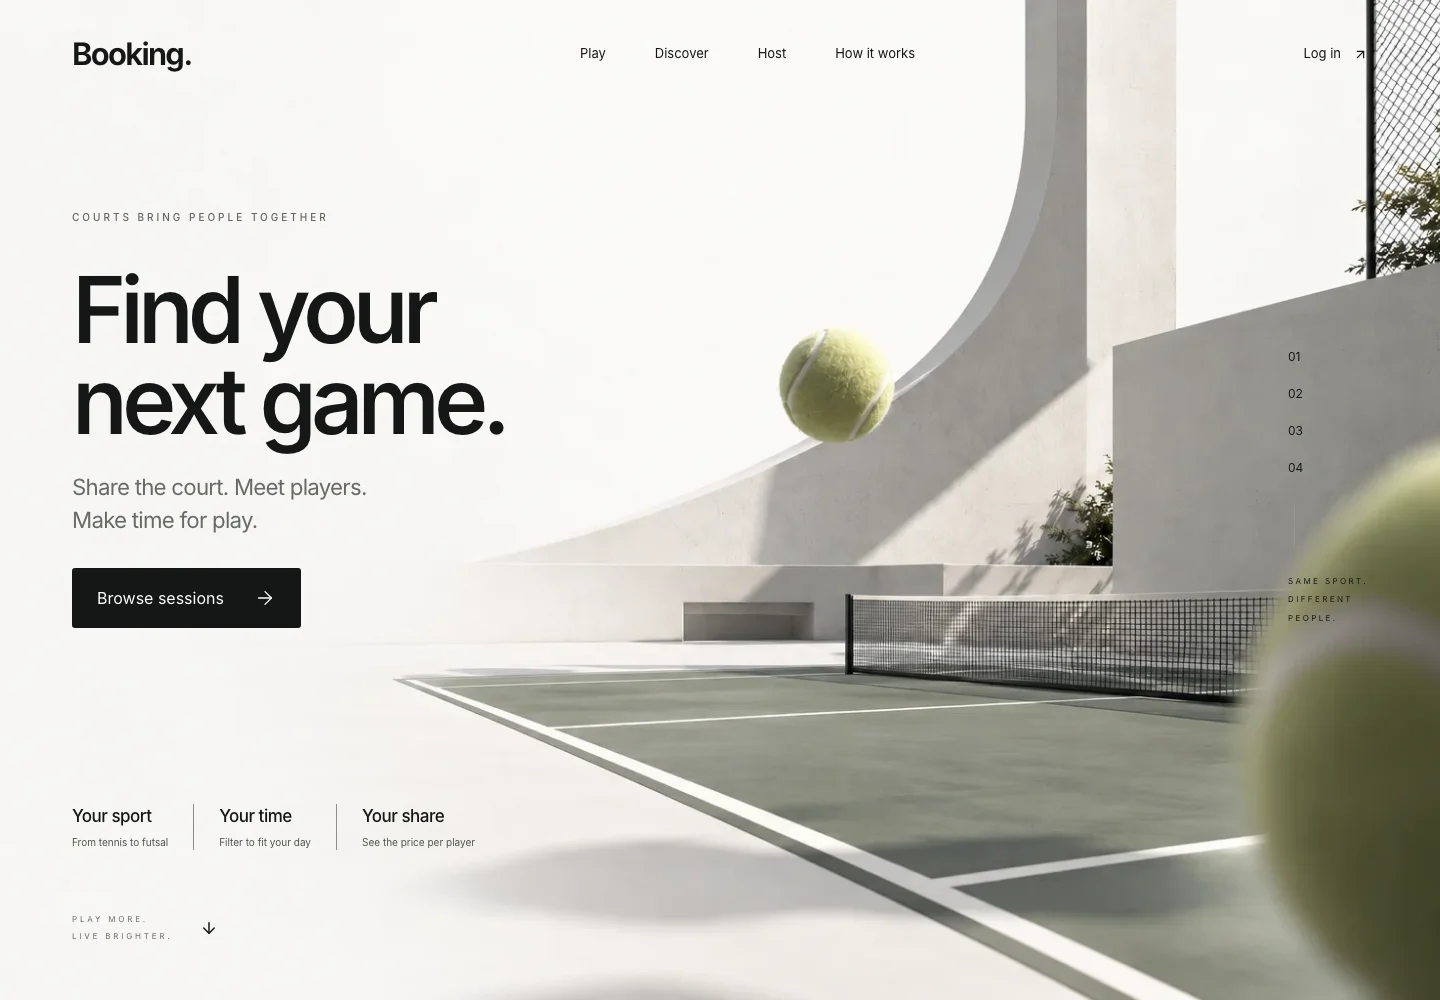
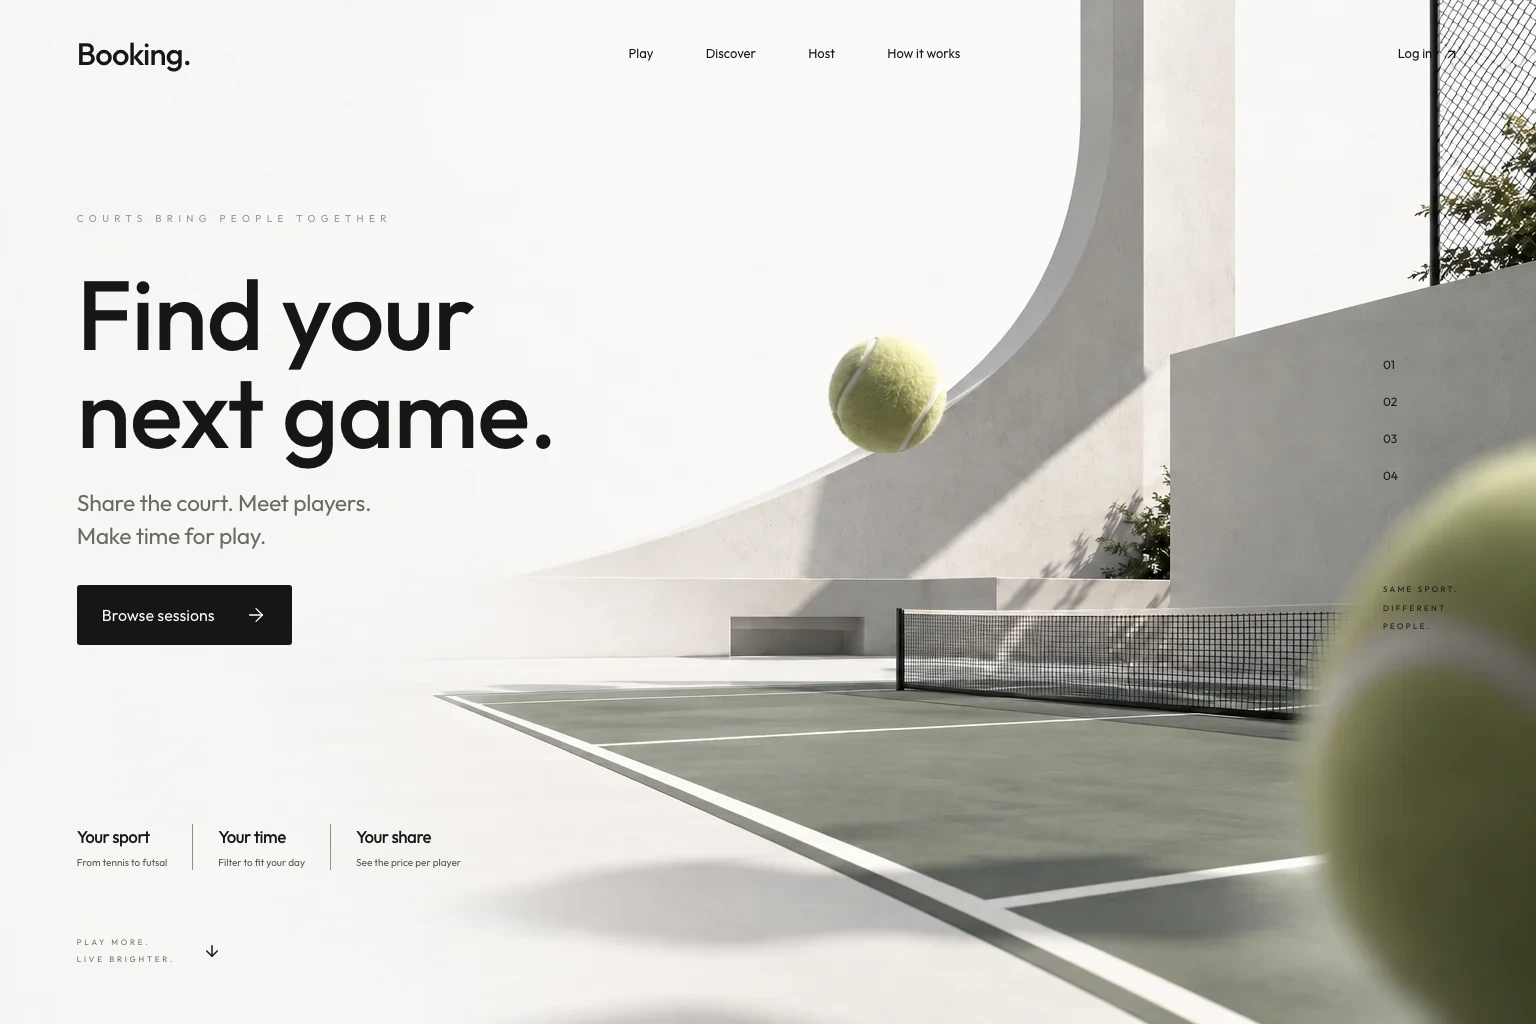
fix(landing): match reference typography and eyebrow spacing

diff --git a/app/_components/landing-view.module.css b/app/_components/landing-view.module.css
@@ -1,9 +1,19 @@
+@font-face {
+  font-family: "Outfit Landing";
+  font-style: normal;
+  font-weight: 100 900;
+  font-display: swap;
+  src: url("/fonts/outfit-latin-variable.woff2") format("woff2");
+}
+
 .page {
   --paper: #f6f5f1;
   --ink: #141716;
   --muted: #62665e;
   background: var(--paper);
   color: var(--ink);
+  font-family: "Outfit Landing", sans-serif;
+  font-synthesis: none;
   overflow: clip;
 }
 
@@ -17,7 +27,7 @@
 .backdrop img { height: 100%; width: 100%; object-fit: cover; object-position: center; }
 .wash { z-index: -1; background: linear-gradient(90deg, rgba(246,245,241,.25), transparent 55%); }
 .header { position: relative; z-index: 5; display: flex; align-items: center; justify-content: space-between; padding: 32px 5%; gap: 32px; }
-.logo { font-size: 31px; font-weight: 650; letter-spacing: -1.7px; line-height: 1.2; }
+.logo { font-size: 31px; font-weight: 500; letter-spacing: -.8px; line-height: 1.2; }
 .desktopNav { display: flex; gap: clamp(24px, 3.4vw, 58px); font-size: 13px; }
 .desktopNav a, .login { display: inline-flex; min-height: 44px; align-items: center; gap: 12px; }
 .desktopNav a, .textLink, .login { transition: color 180ms ease; }
@@ -26,8 +36,9 @@
 .mobileMenu, .mobileBreak { display: none; }
 .heroCopy { position: relative; z-index: 2; padding: clamp(62px, 10vh, 140px) 5% 0; width: fit-content; }
 .eyebrow { font-size: 10px; font-weight: 500; letter-spacing: .3em; text-transform: uppercase; line-height: 1.8; color: var(--muted); }
-.heroCopy h1 { font-size: clamp(66px, 6.4vw, 110px); font-weight: 550; letter-spacing: -.065em; line-height: .99; margin: 38px 0 25px; }
-.intro { font-size: clamp(16px, 1.55vw, 23px); line-height: 1.45; color: #676b64; letter-spacing: -.035em; }
+.heroCopy .eyebrow { font-weight: 400; letter-spacing: .54em; color: #919392; }
+.heroCopy h1 { font-size: clamp(66px, 6.4vw, 110px); font-weight: 500; letter-spacing: -.01em; line-height: .99; margin: 38px 0 25px; }
+.intro { font-size: clamp(16px, 1.55vw, 23px); line-height: 1.45; color: #676b64; letter-spacing: -.015em; }
 .primaryLink { display: inline-flex; align-items: center; justify-content: space-between; gap: 30px; background: var(--ink); color: #fff; border-radius: 3px; padding: 18px 25px; min-height: 58px; font-size: 16px; margin-top: 32px; transition: background 180ms ease, transform 180ms ease; }
 .primaryLink:hover { background: #34402d; transform: translateY(-2px); }
 .primaryLink svg { width: 22px; height: 22px; stroke-width: 1.4; transition: transform 180ms ease; }
@@ -97,7 +108,7 @@
   .backdrop img { object-position: center; }
   .wash { background: linear-gradient(0deg, rgba(246,245,241,.65) 0%, transparent 17%); }
   .header { padding: 14px 6.5%; }
-  .logo { font-size: 27px; letter-spacing: -1.4px; }
+  .logo { font-size: 27px; letter-spacing: -.7px; }
   .desktopNav, .login { display: none; }
   .mobileMenu { display: block; }
   .mobileMenu summary { list-style: none; cursor: pointer; display: flex; min-height: 44px; min-width: 44px; justify-content: flex-end; align-items: center; }
@@ -106,9 +117,9 @@
   .mobileMenu nav { position: absolute; top: 80px; left: 6.5%; right: 6.5%; padding: 16px 22px; background: #f6f5f1; border: 1px solid #d5d7ca; box-shadow: 0 12px 40px #22251c15; display: grid; }
   .mobileMenu nav a { min-height: 44px; display: flex; align-items: center; font-size: 15px; }
   .heroCopy { padding: 14px 6.5% 0; width: 100%; }
-  .heroCopy .eyebrow { font-size: 8px; line-height: 1.9; letter-spacing: .32em; max-width: 70%; }
+  .heroCopy .eyebrow { font-size: 7px; line-height: 1.8; letter-spacing: .5em; max-width: 70%; }
   .mobileBreak { display: block; }
-  .heroCopy h1 { font-size: clamp(45px, 12.6vw, 85px); line-height: 1; letter-spacing: -.065em; margin-top: 25px; margin-bottom: 19px; }
+  .heroCopy h1 { font-size: clamp(45px, 12.6vw, 85px); line-height: 1; letter-spacing: -.01em; margin-top: 25px; margin-bottom: 19px; }
   .intro { font-size: clamp(13px, 3.65vw, 23px); line-height: 1.4; max-width: 78%; }
   .heroCopy .primaryLink { min-height: 49px; font-size: 13px; margin-top: 23px; padding: 14px 18px; gap: 24px; }
   .heroCopy .primaryLink svg { width: 22px; }

diff --git a/public/fonts/README.md b/public/fonts/README.md
@@ -18,3 +18,21 @@ desktop discovery heading uses the same wordmark at its display size.
 
 License: [SIL Open Font License 1.1](OFL.txt).
 Original license: <https://github.com/google/fonts/blob/main/ofl/inter/OFL.txt>.
+
+# Landing page: Outfit
+
+The public landing page scopes its typography to Outfit, a geometric sans with
+single-storey `a` and `g`, selected by visual comparison with the supplied
+desktop and mobile references. The screenshot does not identify an exact font.
+The rest of the app retains Inter and its existing wordmark specification.
+
+`outfit-latin-variable.woff2` is the unchanged Latin subset from Google Fonts
+CSS version v15, with normal weights 100–900. The landing CSS loads it locally;
+no external font request is required. The headline uses weight 500, while the
+hero eyebrow uses weight 400 with deliberately wide tracking.
+
+Source stylesheet:
+<https://fonts.googleapis.com/css2?family=Outfit:wght@100..900&display=swap>
+
+License: [SIL Open Font License 1.1](Outfit-OFL.txt).
+Original license: <https://github.com/google/fonts/blob/main/ofl/outfit/OFL.txt>.

diff --git a/app/_components/landing-page.md b/app/_components/landing-page.md
@@ -11,6 +11,14 @@ and navigation remain HTML. The mobile menu uses native `details`/`summary`
 and the skip link moves keyboard focus past navigation. Reduced-motion users
 receive no decorative transitions.
 
+Landing typography uses a locally bundled Outfit variable font, scoped to this
+view. The geometric letter shapes, headline weight and hero eyebrow tracking
+are visually matched to the supplied references. The eyebrow is 10px with
+5.4px tracking on desktop and 7px with 3.5px tracking on mobile. Its lighter
+color applies only to the decorative hero label; functional text and the
+remaining app retain their existing contrast and typography. Font provenance
+and license: `public/fonts/README.md`.
+
 Product proof is descriptive: supported sports, date/time filters, and the
 price per player. No venue, player or location totals are invented. Sports
 links use canonical discovery query values (UC2-01). Hosting links to the
